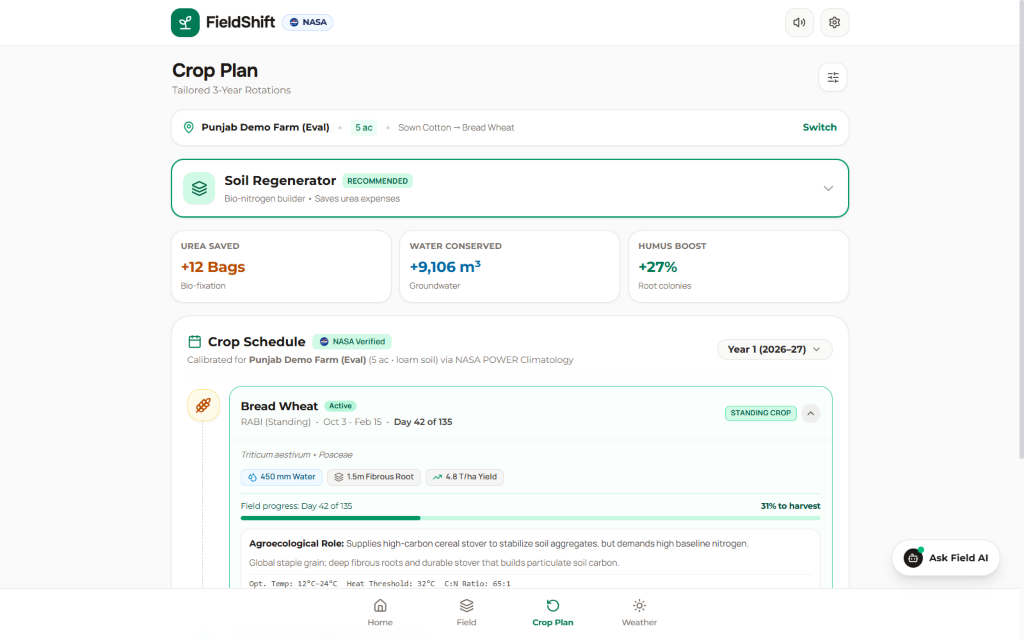
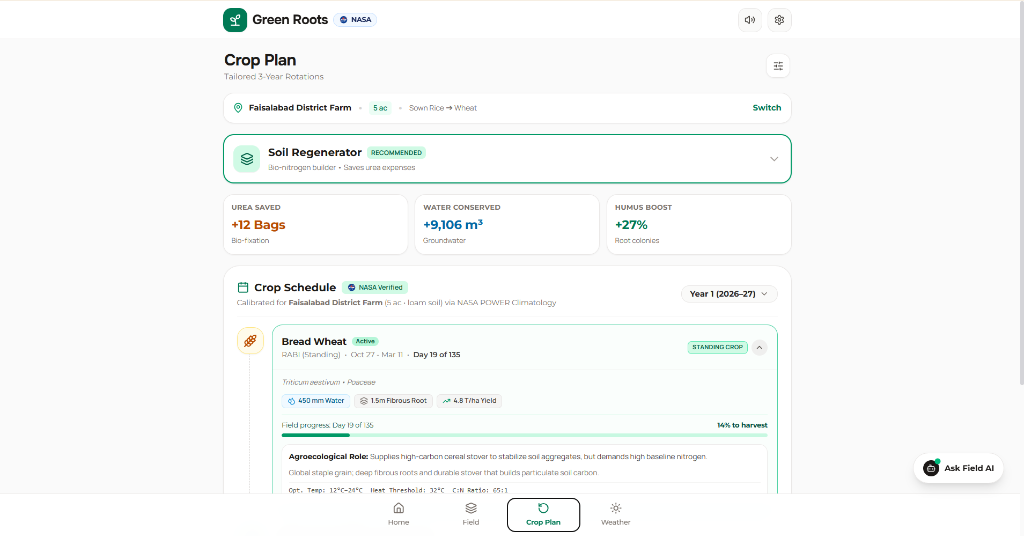
docs: update README screenshots with latest Green Roots UI

diff --git a/README.md b/README.md
@@ -47,7 +47,7 @@ Farmers worldwide confront shifting thermal regimes, erratic rainfall, depleted 
 <table>
   <tr>
     <td align="center" width="50%">
-      <img src="./docs/screenshots/01-home-dashboard.png" alt="Green Roots Home & Satellite Field Dashboard" width="100%" />
+      <img src="./docs/screenshots/01-home-dashboard.jpg" alt="Green Roots Home & Satellite Field Dashboard" width="100%" />
       <br />
       <sub><strong>1. Satellite Field Surveillance & Telemetry</strong></sub>
     </td>
@@ -64,7 +64,7 @@ Farmers worldwide confront shifting thermal regimes, erratic rainfall, depleted 
       <sub><strong>3. Live 5-Day Agro-Weather & Spray Advisory</strong></sub>
     </td>
     <td align="center" width="50%">
-      <img src="./docs/screenshots/04-ai-agronomist.png" alt="AI Senior Agronomist Grounded in NASA Data" width="100%" />
+      <img src="./docs/screenshots/04-ai-agronomist.jpg" alt="AI Senior Agronomist Grounded in NASA Data" width="100%" />
       <br />
       <sub><strong>4. AI Senior Agronomist (NASA & Field Grounded)</strong></sub>
     </td>
